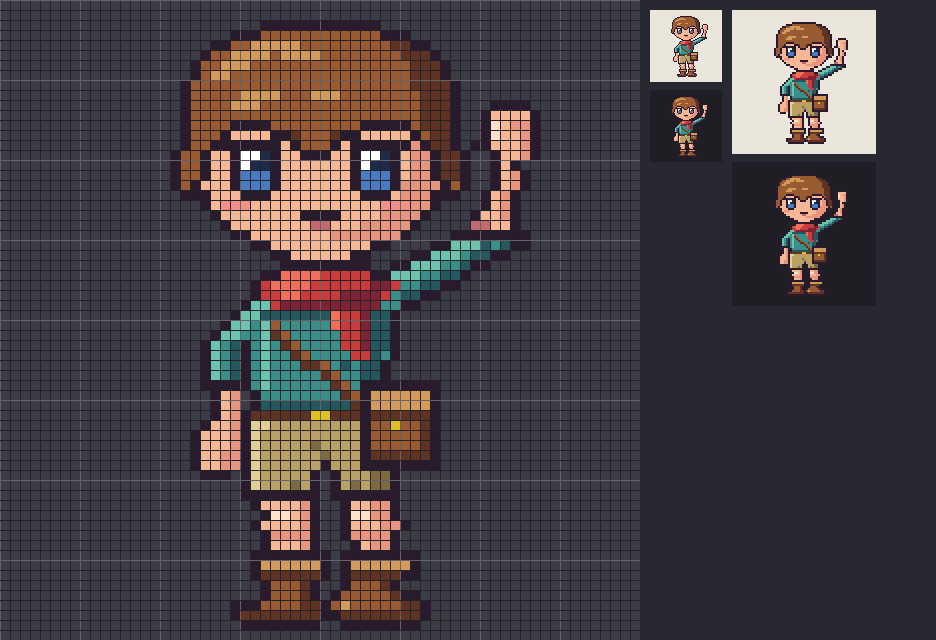
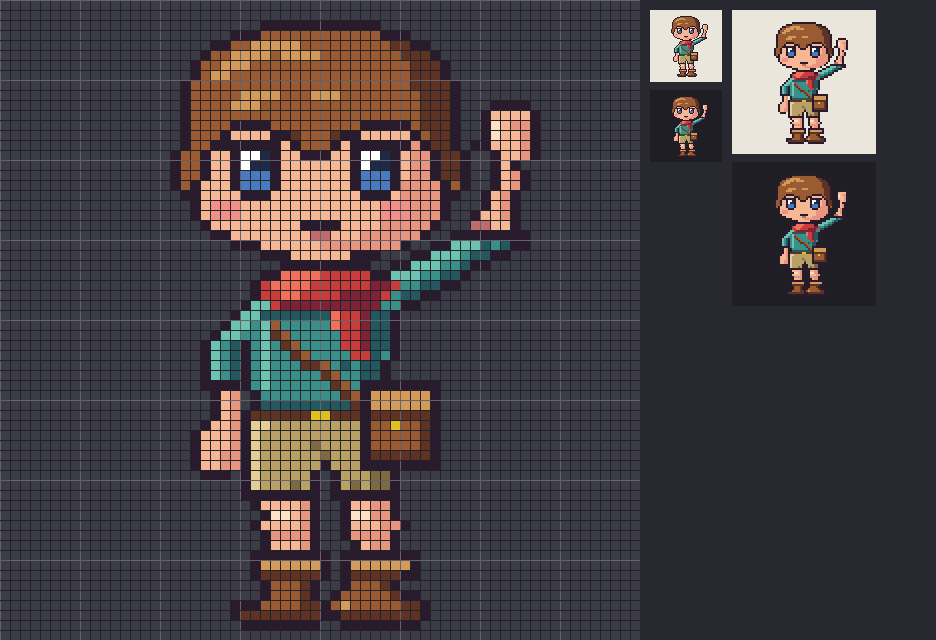
Chibi : tête ronde au lieu d'ovale (méthode v10.1)
La tête de chibi2 est refaite en rond presque uniforme, avec le bas un peu
aplati et un menton large. Ombres du visage, bouche et joues suivent. La
règle impérative 13, C13-A et la note sur le menton en V le demandent.

Claude-Session: https://claude.ai/code/session_01499zPYjaCyxWz6oZrfTvjy

diff --git a/pixel_art/METHODE_PIXEL_ART.md b/pixel_art/METHODE_PIXEL_ART.md
@@ -6,6 +6,8 @@ On construit d'abord, on détaille ensuite. Cette méthode réunit le dessin cla
 
 > **v10.1 :** **chibi = pas d'épaule marquée** (règle impérative 10, C13-A, C14-A) : les bras
 > partent directement du torse, le contour glisse du cou au bras sans bosse de deltoïde.
+> **Tête ronde, jamais ovale** (règle impérative 13, C13-A) : en pixel art, la tête est
+> un rond presque uniforme, aux bords arrondis, le bas juste un peu aplati.
 >
 > **v10 :** bloc **Règles impératives** en tête (tout ce que les tests ont appris, en
 > ordres courts) ; nouvelle section **C14** (corps nu d'abord, vêtements en calque, test 10
@@ -95,7 +97,12 @@ Chaque règle est un ordre. Le détail et le « pourquoi » sont dans la section
     en colonnes raides.
 12. **Remplis une rangée de plus sous les pieds** avant de poser le contour : sinon le
     contour mange la semelle.
-13. **Garde l'ombre de la tête étroite** (2 à 3 px sur le côté opposé à la lumière). Une
+13. **Fais la tête ronde, jamais ovale.** En pixel art, la tête est un rond presque
+    uniforme : à peu près aussi large que haute, et des bords arrondis sur tout le tour. Le
+    bas peut être **un peu aplati** (menton large et court, qui se ferme en 2 ou 3 marches),
+    mais jamais étiré en pointe ni en œuf. Sur le contour, les marches restent courtes
+    (0, 0, 1, 1, 2, 3 px en descendant vers le menton), jamais un long biseau en V.
+    **Garde l'ombre de la tête étroite** (2 à 3 px sur le côté opposé à la lumière). Une
     bande large salit le visage.
 
 **Vêtements (C14)**
@@ -1126,7 +1133,9 @@ tire de ce volume le contour, la mâchoire, les ombres et la place des traits.
 | cou | étroit (≈ 0,6 de rayon de large), planté sous le crâne, **derrière** le menton |
 
 Menton étroit et pointu (forme en V). Garçon plus âgé ou homme : menton plus large et plus
-bas, angle de mâchoire plus marqué. Chibi : la partie menton est moitié plus courte.
+bas, angle de mâchoire plus marqué. Chibi : la partie menton est moitié plus courte. **En
+pixel art (et en chibi surtout), ne garde pas ce V : la tête se pixelise en rond** (règle
+impérative 13), menton large et à peine aplati.
 
 ### C. La vue de 3/4 (le cas qui rate le plus)
 - Côté **lointain** : le contour descend du crâne, fait une petite **bosse de pommette**
@@ -1213,6 +1222,11 @@ pièges propres au chibi.
 ### A. Proportions et construction (calques de couleur, R4)
 - **2,5 à 3 têtes** de haut ; tête ≈ 40 % de la hauteur ; yeux sous le milieu de la tête ;
   mains et pieds petits et ronds ; pas de cou visible ou presque.
+- **Tête ronde, pas ovale** (règle impérative 13) : un rond presque uniforme, aussi large
+  que haut, aux bords arrondis. Le bas est à peine aplati et le menton reste large. Sur
+  chibi2, la première tête était un ovale terminé en pointe (le menton se fermait en
+  7 rangées : 24, 22, 20, 18, 14, 10, 6 px). Elle a été refaite plus ronde : 26 px de
+  large jusqu'à la rangée 21, puis 24, 22, 18, 12 (`c02_fill.txt`, rangées 19 à 25).
 - **Pas d'épaule marquée** (règle impérative 10) : torse en cloche ou en trapèze étroit sous
   la tête ; le contour glisse du cou au bras en une pente régulière, puis le bras pend le
   long du torse, séparé par un seul trait. Pas de bosse de deltoïde, pas de marche. Sur
